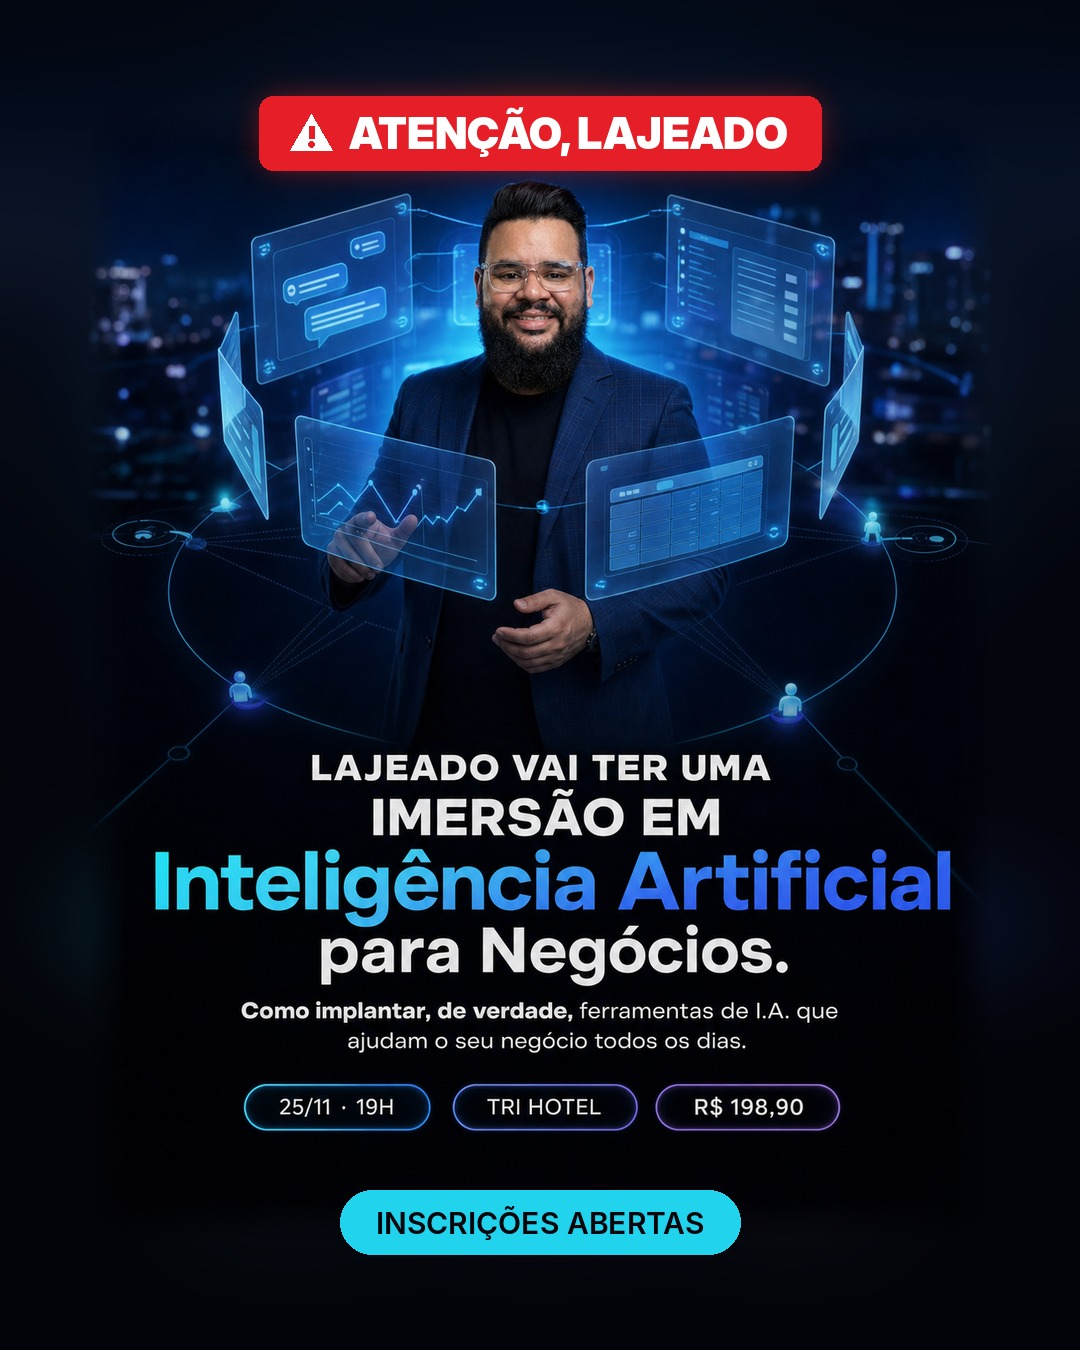
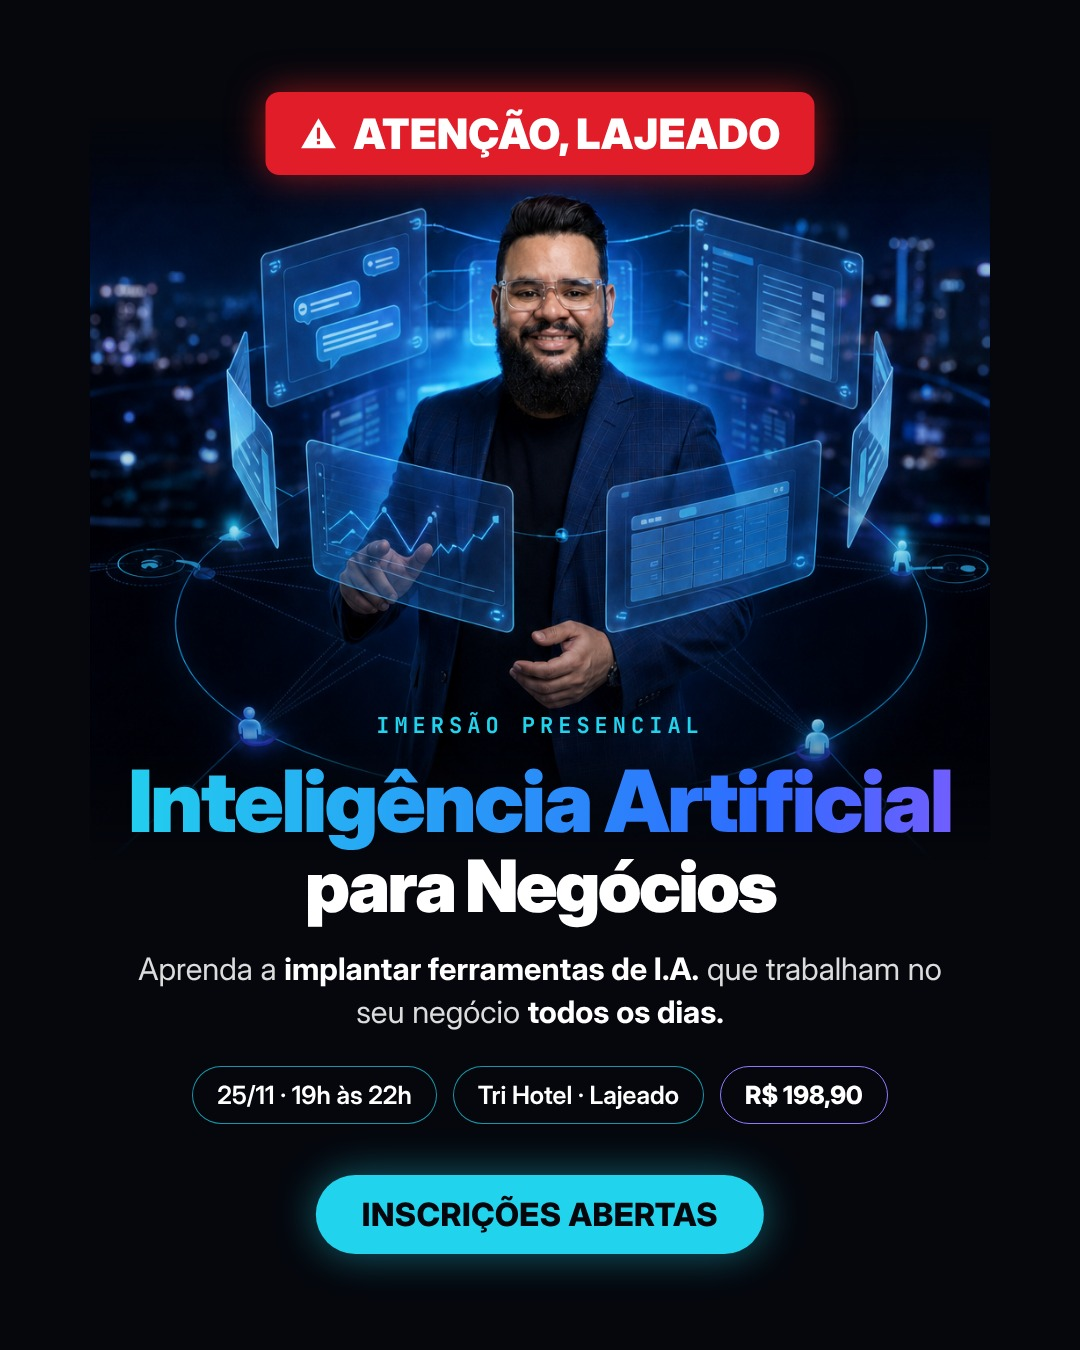
Arte Lajeado para tráfego pago: cena GPT sem texto + textos por código, margens de respiro
Claude-Session: https://claude.ai/code/session_01VAnyZ4LfARjf93zJngDLkM

Changed region(s): [[0.0, 0.0622, 0.9167, 0.9644], [0.9167, 0.1244, 0.9472, 0.1556]]

diff --git a/scripts/arte_lajeado_trafego.py b/scripts/arte_lajeado_trafego.py
@@ -1,0 +1,55 @@
+"""Arte de tráfego pago 'Atenção, Lajeado' — cena do GPT sem texto + textos por código."""
+import base64, pathlib, sys
+from playwright.sync_api import sync_playwright
+
+S = pathlib.Path("/tmp/claude-0/-home-claude/2f9aa9cf-efcd-5930-acf1-b1be0c7a3bb7/scratchpad")
+R = pathlib.Path("/home/claude/conexao-posts")
+OUT = pathlib.Path(sys.argv[1])
+
+def b64(p, mime):
+    return f"data:{mime};base64," + base64.b64encode(pathlib.Path(p).read_bytes()).decode()
+
+F = S / "fonts"
+MONO = b64(F / "fontsource-jetbrains-mono-5.3.0/files/jetbrains-mono-latin-700-normal.woff2", "font/woff2")
+CENA = b64(R / "gerar/saida/2026-10-19-lajeado-sem-texto.png", "image/png")
+
+html = f"""<!doctype html><html><head><meta charset="utf-8"><style>
+@font-face {{ font-family:'Mono'; src:url({MONO}) format('woff2'); font-weight:700; }}
+* {{ margin:0; padding:0; box-sizing:border-box; }}
+body {{ width:1080px; height:1350px; overflow:hidden; background:#05070D; font-family:'Inter Display','Inter',sans-serif; color:#fff; position:relative; }}
+.wrap {{ position:absolute; left:0; top:0; width:1080px; height:1350px; -webkit-mask-image: linear-gradient(to right, transparent 0, #000 90px, #000 990px, transparent 1080px); }}
+.cena {{ position:absolute; left:90px; top:118px; width:900px;
+  -webkit-mask-image: linear-gradient(to bottom, transparent 0, #000 90px, #000 46%, transparent 55%); }}
+.tag {{ position:absolute; top:92px; left:50%; transform:translateX(-50%); display:flex; align-items:center; gap:16px;
+  background:#E11D2A; padding:16px 34px; border-radius:14px; font-weight:900; font-size:42px; letter-spacing:.5px;
+  box-shadow:0 0 36px rgba(255,40,40,.55); white-space:nowrap; }}
+.tag svg {{ width:38px; height:38px; }}
+.bloco {{ position:absolute; left:96px; right:96px; bottom:226px; text-align:center; }}
+.k {{ font-family:'Mono'; color:#22D3EE; font-size:22px; letter-spacing:5px; margin-bottom:18px; }}
+h1 {{ font-weight:900; line-height:1.0; letter-spacing:-2.5px; }}
+h1 .g {{ display:block; font-size:86px; background:linear-gradient(90deg,#22D3EE,#2F6BFF 75%,#7C5CFF); -webkit-background-clip:text; color:transparent; padding-bottom:6px; }}
+h1 .w {{ display:block; font-size:72px; }}
+.sub {{ font-size:31px; line-height:1.38; color:rgba(255,255,255,.86); margin:26px auto 0; max-width:820px; }}
+.sub b {{ color:#fff; }}
+.chips {{ display:flex; justify-content:center; gap:16px; margin-top:32px; }}
+.chips span {{ font-size:25px; font-weight:600; padding:13px 24px; border-radius:40px; border:1.5px solid rgba(34,211,238,.7); background:rgba(5,7,13,.55); white-space:nowrap; }}
+.chips span.p {{ border-color:#8B7CFF; font-weight:800; }}
+.cta {{ position:absolute; bottom:96px; left:50%; transform:translateX(-50%); background:#22D3EE; color:#05070D; font-weight:800; font-size:32px;
+  letter-spacing:.5px; padding:20px 46px; border-radius:50px; box-shadow:0 0 40px rgba(34,211,238,.45); white-space:nowrap; }}
+</style></head><body>
+<div class="wrap"><img class="cena" src="{CENA}"></div>
+<div class="tag"><svg viewBox="0 0 24 24"><path d="M12 2 1 21h22L12 2z" fill="#fff"/><rect x="11" y="8" width="2" height="7" fill="#E11D2A"/><rect x="11" y="16.5" width="2" height="2" fill="#E11D2A"/></svg>ATENÇÃO, LAJEADO</div>
+<div class="bloco">
+  <div class="k">IMERSÃO PRESENCIAL</div>
+  <h1><span class="g">Inteligência Artificial</span><span class="w">para Negócios</span></h1>
+  <p class="sub">Aprenda a <b>implantar ferramentas de I.A.</b> que trabalham no seu negócio <b>todos os dias.</b></p>
+  <div class="chips"><span>25/11 · 19h às 22h</span><span>Tri Hotel · Lajeado</span><span class="p">R$ 198,90</span></div>
+</div>
+<div class="cta">INSCRIÇÕES ABERTAS</div>
+</body></html>"""
+
+with sync_playwright() as p:
+    b = p.chromium.launch(); pg = b.new_page(viewport={"width": 1080, "height": 1350})
+    pg.set_content(html); pg.wait_for_timeout(500)
+    pg.screenshot(path=str(OUT)); b.close()
+print("ok")
